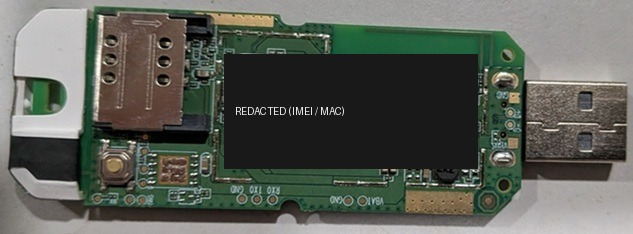
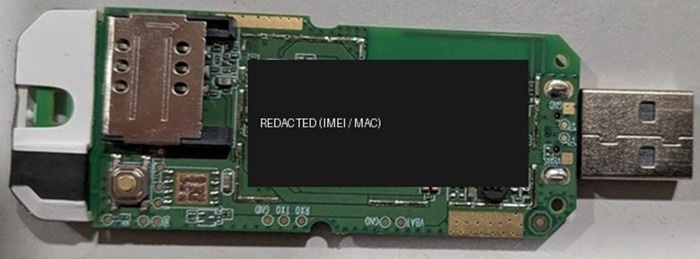
Correct EDL entry method, refresh screenshots, add LuCI photos
- EDL is entered by holding the reset button while plugging in the USB
  stick, not by shorting test points. Corrected in README section 2, the
  PCB caption, the Zadig cross-reference and edl-drain.py.
- Refreshed resized box-label and PCB-back photos.
- Added 05/06: LuCI running OpenWrt 25.12.5 on the stick, reached over
  WiFi at 192.168.100.1, with memory and overlay status.

Changed region(s): [[0.3602, 0.4487, 0.5403, 0.5085]]

diff --git a/scripts/edl-drain.py b/scripts/edl-drain.py
@@ -18,7 +18,8 @@ find 0x01 / "<?xml" / 0x7E at the head of it, and declares the device broken.
 Fix
 ---
 Drain the bulk IN endpoint until it goes quiet, then poke it with a <nop/>. The
-loader stays resident, so no power cycle and no test points are needed.
+loader stays resident, so there is no need to power-cycle or re-enter EDL with the
+reset button.
 
 Usage
 -----

diff --git a/README.md b/README.md
@@ -29,10 +29,17 @@ workaround below is one that actually came up.
 | | |
 |---|---|
 | ![pcb front](screenshots/03-pcb-front.jpg) | ![pcb back](screenshots/04-pcb-back-uart.jpg) |
-| PCB front: MSM8916 + SK hynix RAM/eMMC. Board revision `UF05260128V05` on the silkscreen. | PCB back: SIM slot and the UART pads — `EXT TXD`, `EXT RXD`, `GND`, `VBAT`. The label is redacted; it carries the IMEI and MAC. |
+| PCB front: MSM8916 + SK hynix RAM/eMMC, board revision `UF05260128V05` on the silkscreen. The **reset button** sits at the left-hand end — hold it while plugging in to enter EDL. | PCB back: SIM slot and the UART pads — `EXT TXD`, `EXT RXD`, `GND`, `VBAT`. The label is redacted; it carries the IMEI and MAC. |
 
 > **Redact your own photos.** The sticker on the back has the unit's IMEI and MAC
 > in plain text. Do not publish it.
+
+### The result
+
+| | |
+|---|---|
+| ![luci status](screenshots/05-luci-status.png) | ![luci memory and storage](screenshots/06-luci-memory-storage.png) |
+| OpenWrt 25.12.5 (kernel 6.12.94) running as `UF02 4G Modem Stick` on `msm89xx/msm8916`, reached over WiFi at `192.168.100.1`. | 382 MiB RAM usable, 3.25 GiB overlay on `rootfs_data`, `br-lan` connected. |
 
 ---
 
@@ -76,8 +83,9 @@ PATH="$PWD/edl/edlclient/Windows:$PATH" .venv/Scripts/python.exe -c "import usb.
 
 ### 1.4 Zadig (WinUSB driver)
 
-With the stick in EDL mode, Windows shows `QHSUSB__BULK` (USB `05C6:9008`) with no
-driver. Run **`edl/Drivers/Windows/zadig-2.8.exe`**:
+With the stick in EDL mode (see [§2](#2-get-into-edl-mode) — hold the reset button
+while plugging it in), Windows shows `QHSUSB__BULK` (USB `05C6:9008`) with no driver.
+Run **`edl/Drivers/Windows/zadig-2.8.exe`**:
 
 1. *Options → List All Devices*
 2. Select **QHSUSB__BULK** (confirm USB ID `05C6 9008`)
@@ -97,13 +105,22 @@ powershell.exe -Command "Get-PnpDevice -PresentOnly | Where-Object { \$_.Instanc
 
 The stick enters EDL (USB `05C6:9008`, `QHSUSB__BULK`) when:
 
-- its bootloader is invalid — the mask-ROM PBL falls back automatically; **or**
-- you short the **EDL test points** on the PCB while plugging it in.
+- **you hold the reset button down while plugging the stick into USB** — this is the
+  normal way in. The button is the small one on the board (visible in the PCB photo
+  above); on this model you do not need to short anything. Keep it held as you insert
+  the stick, and Windows enumerates `QHSUSB__BULK` instead of the usual modem; **or**
+- its bootloader is invalid — the mask-ROM PBL then falls back to EDL by itself.
 
 Once OpenWrt is installed and booting, the stick no longer drops into EDL on its
-own — the test points are the way back in. Because the PBL lives in mask ROM and
-secure boot is not fused on this hardware, **EDL cannot be flashed away**. That is
-the safety net behind everything below.
+own — the reset-button-while-plugging trick is the way back in. Because the PBL lives
+in mask ROM and secure boot is not fused on this hardware, **EDL cannot be flashed
+away**. That is the safety net behind everything below.
+
+Check it worked before running anything:
+
+```bash
+powershell.exe -Command "Get-PnpDevice -PresentOnly | Where-Object { \$_.InstanceId -like 'USB\VID_05C6&PID_9008*' } | Format-List FriendlyName, Status"
+```
 
 ---
 
